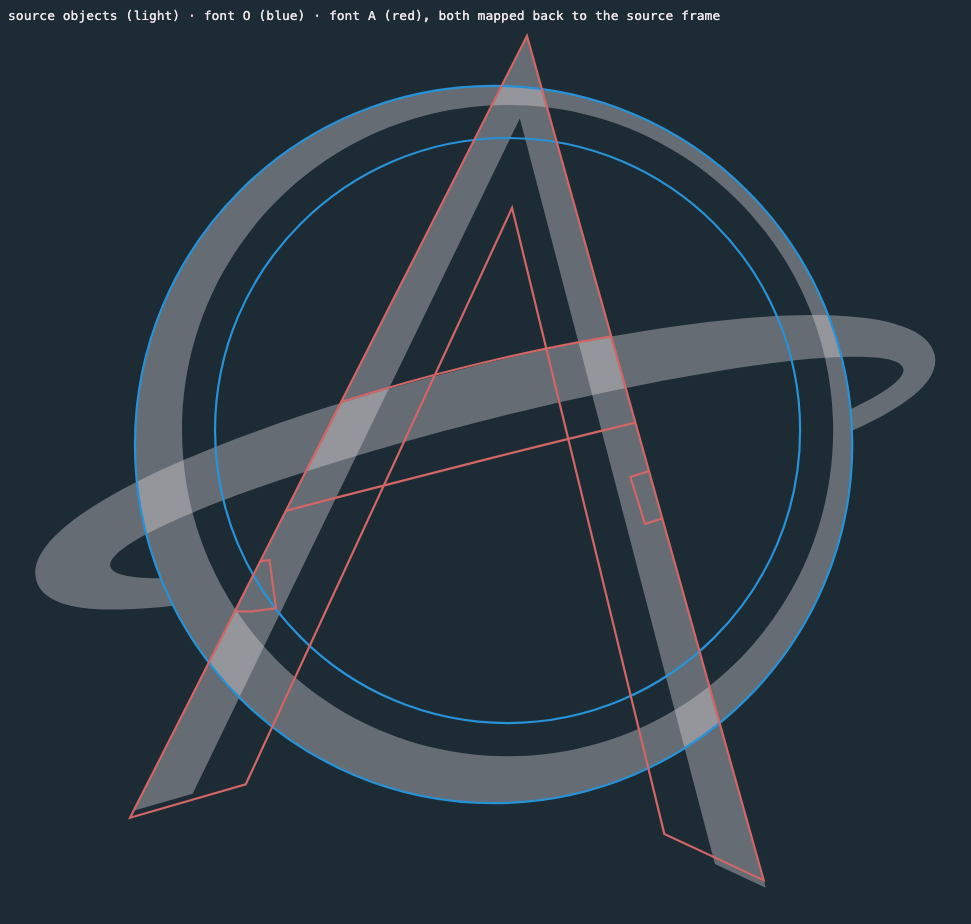
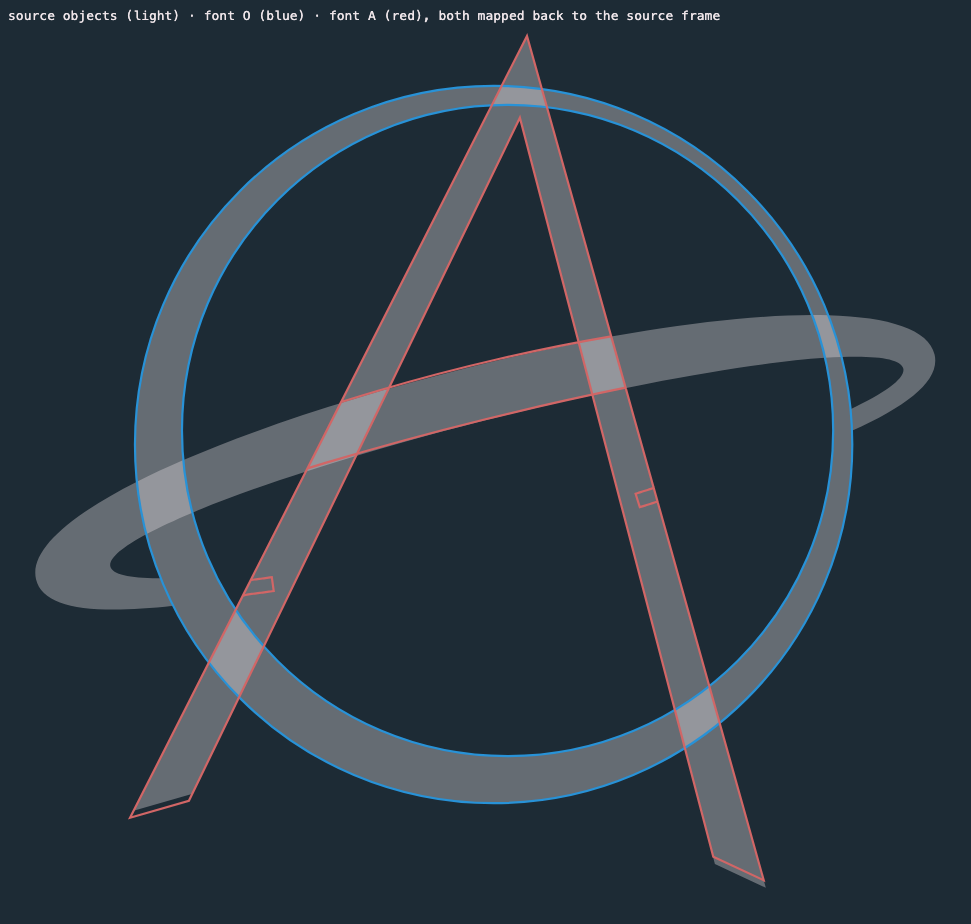
fix(font): the overlay was drawing the Black A over the Regular source
measure/axes.py builds a master per cell by re-running build_glyphs.py, and
it left build/glyphs.json at whatever the last cell was -- WEIGHT 2.00.
proof.py reads that file, so the overlay sheet compared the Black A against
the mark and the two did not line up, which is exactly what it exists to
check.  axes.py restores the default build on its way out now, and the
overlay is regenerated: the red A sits on the grey source again.

That is the second time in this batch a sheet was wrong because a script
left global state behind or was rendered for one purpose and reused for
another.

Also on the ring underlay: it draws only the RING now -- the O and the white
swash were in it and did nothing but tangle with the letters -- and the
paragraph explaining why the G was not pictured is gone.  Narrating an
editing decision on the artefact itself is worse than either showing the G
or not mentioning it; what the G was there to say ("short chords agree")
is now stated plainly as a fact about the rule.

diff --git a/font/measure/axes.py b/font/measure/axes.py
@@ -5,6 +5,9 @@ interpolation, so what the sheet shows is what the variable font is built from.
 
     python3 measure/axes.py        # writes measure/evidence/axes.svg
 
+Restores build/glyphs.json to the default build on the way out.  It did not, and proof.py
+reads that file, so the overlay sheet was drawn with the Black A over the Regular source.
+
 Rasterise with measure/rasterize.mjs.
 """
 import json, os, subprocess, sys
@@ -36,6 +39,7 @@ def path(g):
 def main():
     S, PAD, TOP = 0.115, 26, 150
     cells = [[build(w, p) for w in WEIGHTS] for p in PUSHES]
+    build(1.00, 1.00)     # leave build/glyphs.json at the default, not at the last cell
     colw = max(sum(G['glyphs'][NAME.get(ch, ch)]['adv'] for ch in WORD) for row in cells for G in row) * S
     W = 150 + len(WEIGHTS) * (colw + PAD) + 40
     H = TOP + len(PUSHES) * 120 + 90
